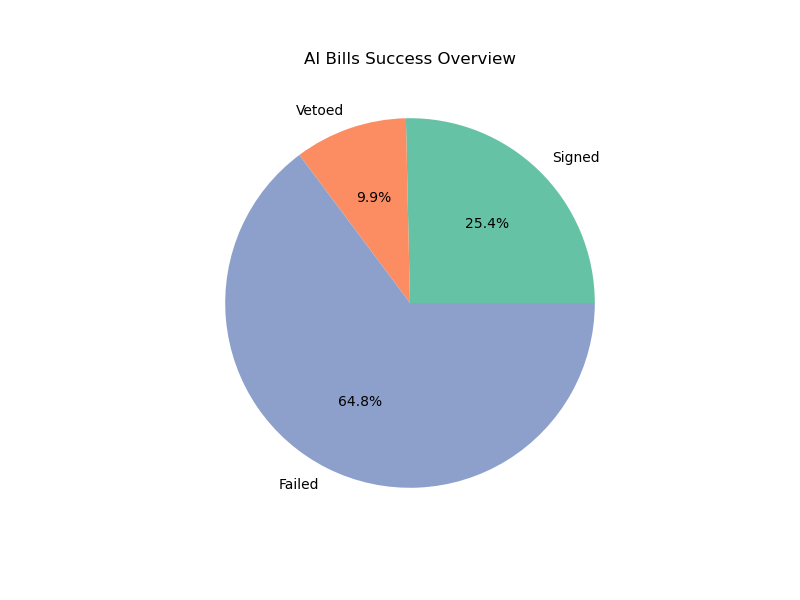
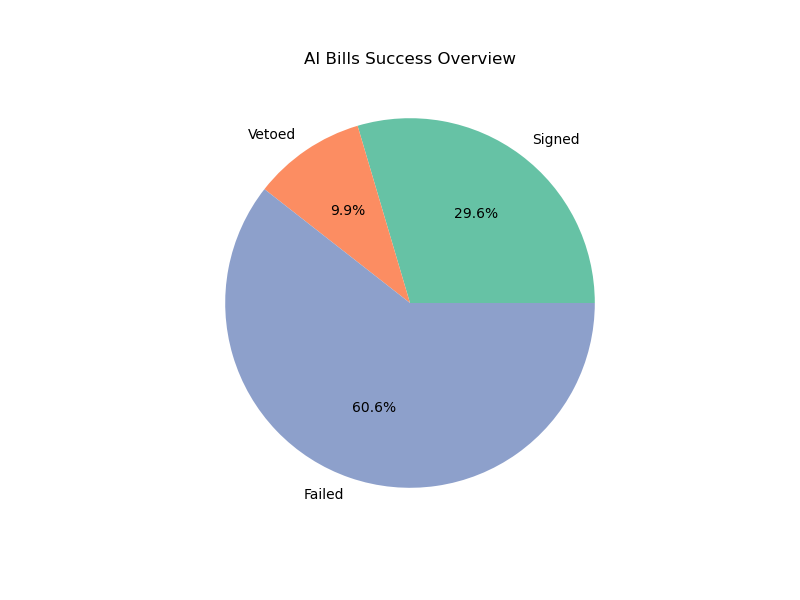
Corrected one bill's assigned success status

diff --git a/bill_success.py b/bill_success.py
@@ -38,7 +38,7 @@ def assign_success(df):
     # Define conditions and corresponding values
     conditions = [
         df['status'].str.contains('veto', case=False, na=False),
-        (df['status'].str.contains('approved by governor', case=False, na=False) |
+        (df['status'].str.contains('approved by the governor', case=False, na=False) |
         df['status'].str.contains('chaptered by secretary of state', case=False, na=False))
         ] # Failed = all other statuses
    
@@ -114,5 +114,6 @@ df.plot(kind='bar', stacked=True, colormap='Set3', figsize=(12,8))
 plt.xlabel('Bill Topic')
 plt.legend(title='Bill Status')
 plt.title('Bill Success by Topic')
+plt.tight_layout()
 plt.savefig('./plots/bills_by_topic.png')
 plt.show()

diff --git a/README.md b/README.md
@@ -15,11 +15,15 @@ We then assign each bill a 'success status' based on their final bill status, as
 - Failed: A bill never made it to the Governor's desk
 
 ## Bill success overview
-Of the 71 bills reviewed, 
+Of the 71 bills reviewed, 18 were signed, 7 were vetoed, and 46 failed to reach the Governor's desk.
 
 ![Bill success overview](plots/bill_success_overview.png)
 
 ## Bill success by topic
-Some bills had more than one topic assigned to them, so the data here totals to move than 71.
+Some bills had more than one assigned topic, so the data here totals to move than 71.
 
 ![Bill success overview](plots/bills_by_topic.png)
+
+## Failed bills status
+Of the bills that failed to reach the Governor's desk, how far in the process did they go? At what stage were bills stalling?
+
